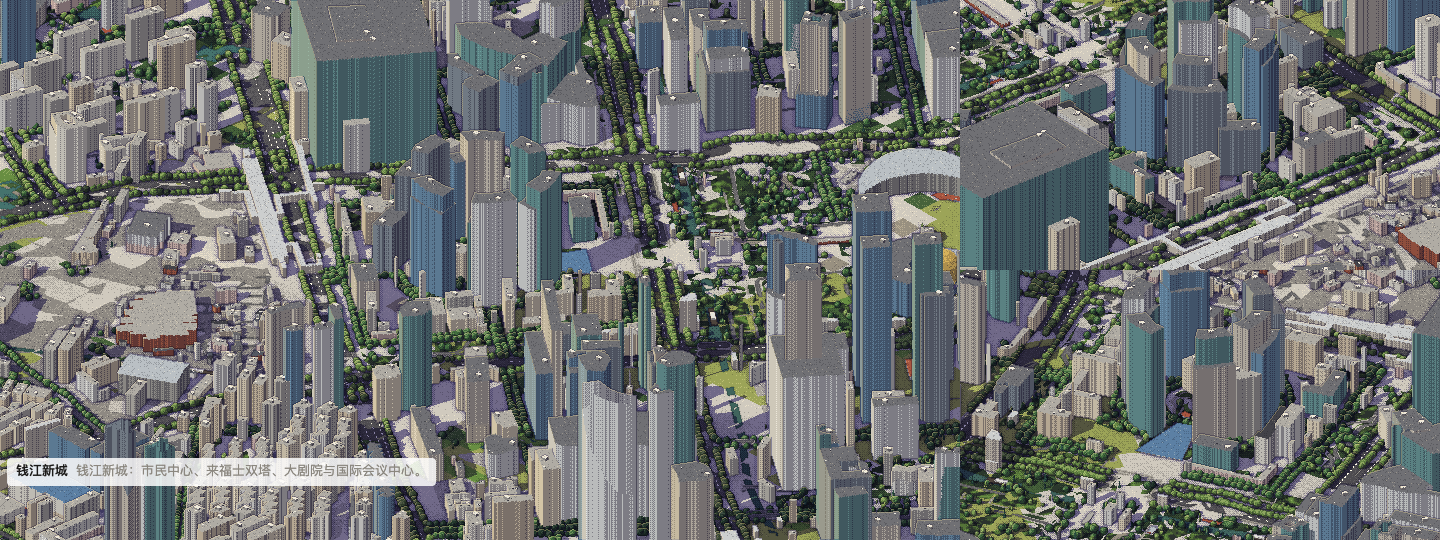
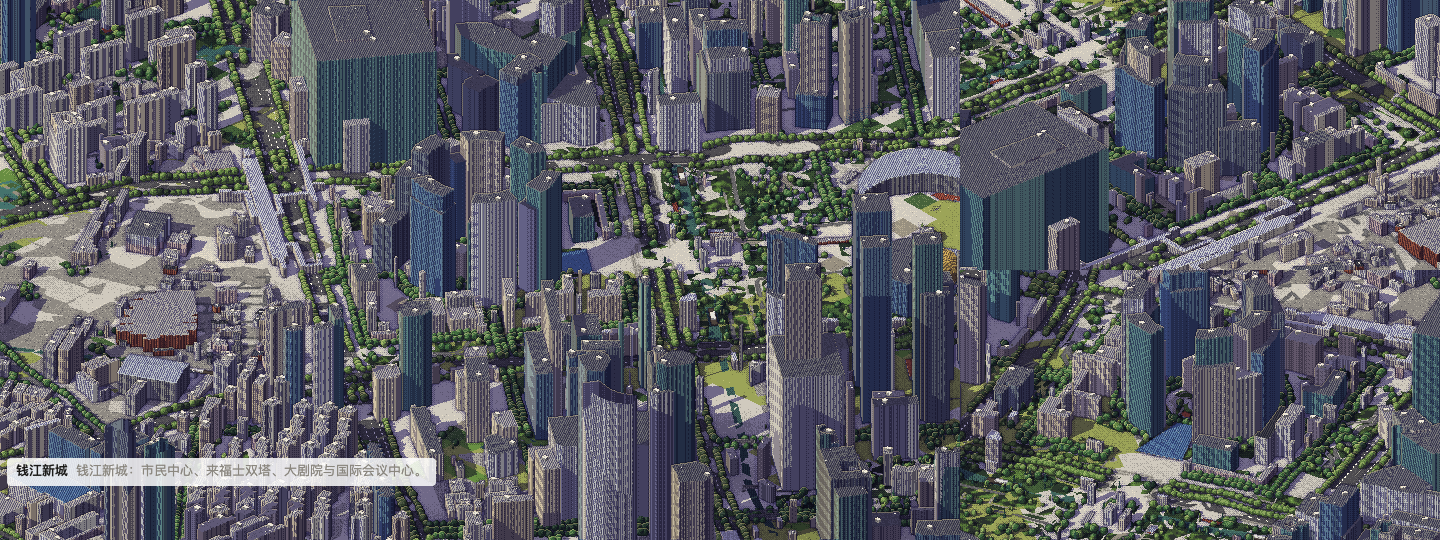
云影·建筑接影·大气透视·水岸亮带（D093）：CLOUD 块两层噪声缓慢漂移，uCloud 三档（晴天零散云影常开、阴天浓、无），地形/地面/建筑/标线统一压档抖动破边；buildings 接进太阳影面，墙与屋顶吃别的楼投来的影子（bias 免自阴影），shadows.cjs 的旧契约（墙永不接影）改为记录不设门，landmark-views 本色检查兼容影变体并给苏堤六桥（自家树影扫桥）逐地标阈值；新的 airHaze 全屏 pass 在地图视图按米数把远处溶进纸色（随时刻，夜里墨蓝）；接缝通道给贴岸的水像素一条浅水亮带。修复两处帧尾 ping-pong 的错：FBO 与纹理分开跟踪（ai

diff --git a/app/src/gl/city-shaders.js b/app/src/gl/city-shaders.js
@@ -7,10 +7,10 @@
 // boxes     the overview tier's buildings: one box per 50 m cell
 // buildings the district tier's buildings: walls and roofs of real outlines
 import { CLASS, FULLSCREEN_VS, PIXEL, PREFIX, MRT, TABLES } from './shaders.js';
-import { CITY_CAMERA, CITY_PIXEL, GRAIN, GROUND_GLSL, ISLAND, NOISE, SEASON, SHADOW } from './city-common.js';
+import { CLOUD, CITY_CAMERA, CITY_PIXEL, GRAIN, GROUND_GLSL, ISLAND, NOISE, SEASON, SHADOW } from './city-common.js';
 
 const VERTEX = PREFIX + CITY_CAMERA;
-const FRAGMENT = PREFIX + CITY_CAMERA + CITY_PIXEL + TABLES + NOISE + MRT + GROUND_GLSL + ISLAND + GRAIN;
+const FRAGMENT = PREFIX + CITY_CAMERA + CITY_PIXEL + TABLES + NOISE + MRT + GROUND_GLSL + ISLAND + GRAIN + CLOUD;
 const RECEIVING = FRAGMENT + SHADOW + SEASON;   // for surfaces that take shadows and snow
 
 // A surface with one colour and a flat light: box() of the reference.
@@ -106,7 +106,7 @@ void main() {
   int colour = builtTone >= 0 ? (builtTone == 2 ? int(uCity.z) : (builtTone == 1 ? int(uCity.y) : int(uCity.x))) : uGroundPal[cls];
   if (1.0 - look.z > 0.45 && builtTone < 0) colour = uGroundPal[19];   // rock on the cliffs
   float mottle = noiseAt(world * 0.012) - 0.5;                 // about 80 m across
-  float level = floor(light + mottle * 1.2 + grainAt(world, 5.0, 0.0) * 0.8 + (bayerAt(ip) - 0.5) * 0.7);
+  float level = floor(light + mottle * 1.2 + grainAt(world, 5.0, 0.0) * 0.8 - cloudShade(world, ip) + (bayerAt(ip) - 0.5) * 0.7);
   vec3 color = rampOf(colour, clamp(level, 0.0, 4.0));
   if (snowed(SNOWED[cls], world, ip)) color = rampOf(uSnowIndex, clamp(light, 2.5, 4.0));
   if (inSun(vWorld) < 0.5) color = inShade(color);
@@ -210,6 +210,7 @@ void main() {
       level -= (1.0 - seam) * 0.7 * fade;
     }
   }
+  level -= cloudShade(vPlace.xy, ip);
   vec3 color = rampOf(uGroundPal[int(vClass)], clamp(level, 0.0, 4.0));
   if (snowed(SNOWED[int(vClass)], vPlace.xy, ip)) color = rampOf(uSnowIndex, clamp(level, 2.5, 4.0));
   if (inSun(vSpot) < 0.5) color = inShade(color);
@@ -348,7 +349,7 @@ void main() {
   vDepth = s.z;
   gl_Position = clip(s);
 }`,
-    fs: FRAGMENT + SEASON + /* glsl */`
+    fs: FRAGMENT + SHADOW + SEASON + /* glsl */`
 uniform float uDetail;                  // 0 far out, 1 once a pixel is under half a metre
 uniform float uMid;                      // 1 once a pixel is under two metres: the ribs of great roofs
 uniform int uWindow;                    // the palette index of window glass, of wood, of temple red
@@ -377,7 +378,7 @@ void main() {
   bool roof = vFace.y > 0.6;                               // up-facing enough to be a roof
   int archetype = int(vLook.x + 0.5);
   int colour = roof ? int(vLook.z) : int(vLook.y);
-  float level = vLight + grainAt(vWorld.xy, 7.0, vLook.w) * 1.3 + (bayer - 0.5) * 0.5;
+  float level = vLight + grainAt(vWorld.xy, 7.0, vLook.w) * 1.3 - cloudShade(vWorld.xy + uCentre.xy, ip) + (bayer - 0.5) * 0.5;
   if (!roof && vWorld.z - vSize.x - uLift < 0.7) level -= 0.55;   // a wall darkens where it meets the ground
   if (roof && uMid > 0.5 && archetype == STATION) {
     // a great roof, ribbed: the skylight strips of a station hall, every twenty-one metres
@@ -444,7 +445,11 @@ void main() {
     }
   }
   if (roof && snowed(vFace.y > 0.97 ? 0.9 : 0.5, vWorld.xy, ip)) colour = uSnowIndex;   // more lies on a flat roof than on a slope
-  outColor = vec4(rampOf(colour, clamp(floor(level), 0.0, 4.0)), 1.0);
+  vec3 color = rampOf(colour, clamp(floor(level), 0.0, 4.0));
+  // a wall or a roof in another building's shade takes the tint, the same as the ground does. The bias
+  // keeps a sun-facing wall out of its own building's shadow; the shaded sides were dark already.
+  if (inSun(vWorld) < 0.5) color = inShade(color);
+  outColor = vec4(color, 1.0);
   outClass = vec4(0.0, 0.0, 0.0, 1.0);
   gl_FragDepth = depthOf(vDepth);
 }
@@ -507,6 +512,9 @@ void main() {
   if (!onIsland(vPlace.xy, ip)) discard;
   vec3 color = rampOf(int(vMark + 0.5), 4.0);   // paint is the brightest thing on the road, shade included
   if (inSun(vSpot) < 0.5) color = inShade(color);
+  float cs = cloudShade(vPlace.xy, ip);         // and it pales under the clouds like the road does
+  if (cs > 0.0) color = vec3(floor(color.r * 255.0 * (1.0 - cs * 0.5)) / 255.0,
+    floor(color.g * 255.0 * (1.0 - cs * 0.5)) / 255.0, floor(color.b * 255.0 * (1.0 - cs * 0.5)) / 255.0);
   outColor = vec4(color, 1.0);
   outClass = vec4(1.0, 5.0 / 255.0, 0.0, 1.0);
   gl_FragDepth = depthOf(vDepth);
@@ -549,6 +557,26 @@ void main() {
 }`,
   },
 
+  // 大气透视：at the far end of the picture the city sinks into the page's paper — the streets, the
+  // blocks, the far shore, each by how far it is. Fullscreen over the finished picture, map view only
+  // (the walking view has its own fog).
+  airHaze: {
+    vs: FULLSCREEN_VS,
+    fs: PREFIX + /* glsl */`
+uniform sampler2D uColor;
+uniform sampler2D uDepthTex;
+uniform vec2 uDepth;                    // nearest and farthest engine depth
+uniform vec3 uPaper;
+out vec4 outColor;
+void main() {
+  vec3 color = texelFetch(uColor, ivec2(gl_FragCoord.xy), 0).rgb;
+  float z = texelFetch(uDepthTex, ivec2(gl_FragCoord.xy), 0).r;
+  float dist = (uDepth.x - uDepth.y) * z;      // metres of engine depth away from the camera centre
+  float haze = smoothstep(1800.0, 6000.0, dist) * 0.55;
+  outColor = vec4(mix(color, uPaper, haze), 1.0);
+}`,
+  },
+
   // The seams of the ground: where two ground classes meet (kerb between road and pavement, the bank of
   // a water, the edge of a path across grass), the last pixel is darkened a shade, with the Bayer pattern
   // breaking the line into the dither. Only ground meets ground here; where the ground meets what stands
@@ -573,16 +601,22 @@ void main() {
   if (!(isCovered(cls) && isGround(cls))) return;
   float here = classOf(cls);
   bool hereWater = isWater(here), hereRoad = isRoad(here);
-  bool seam = false;
+  bool seam = false, shore = false;
   for (int k = 0; k < 4; k++) {
     ivec2 off = k == 0 ? ivec2(1, 0) : k == 1 ? ivec2(-1, 0) : k == 2 ? ivec2(0, 1) : ivec2(0, -1);
     vec4 n = texelFetch(uClass, q + off, 0);
     if (!(isCovered(n) && isGround(n))) continue;   // the island's edge dissolving into white draws no line
     float nc = classOf(n);
     if (nc == here) continue;
-    if (hereWater != isWater(nc) || (hereRoad != isRoad(nc) && !hereWater && !isWater(nc))) seam = true;
+    if (hereWater != isWater(nc)) shore = hereWater;   // a water pixel against the land pales: shallow water, foam
+    else if (hereRoad != isRoad(nc) && !hereWater && !isWater(nc)) seam = true;
   }
-  if (!seam || bayerAt(cpu(q)) < 0.2) return;
+  float speck = bayerAt(cpu(q));
+  if (shore) {
+    if (speck >= 0.3) outColor = vec4(floor(color * 255.0 * vec3(1.14, 1.12, 1.05)) / 255.0, 1.0);
+    return;
+  }
+  if (!seam || speck < 0.2) return;
   outColor = vec4(floor(color * 255.0 * (uSnow > 0.5 ? 0.92 : 0.84)) / 255.0, 1.0);
 }`,
   },

diff --git a/app/src/render/city.js b/app/src/render/city.js
@@ -65,6 +65,8 @@ export class CityRenderer extends StyleRenderer {
     this.shadowLen = SHADOW;
     this.night = 0;
     this.paper = [1, 1, 1, 1];
+    this.paperRgb = [1, 1, 1];
+    this.cloud = 1;                      // the fair-weather scattering is always about; rain sets 2, a clear sky 0
     this.lampHeads = new Float32Array(64 * 3);
     this.lampCount = 0;
     this.drawn = { tiles: 0, triangles: 0, trees: 0 };
@@ -142,7 +144,8 @@ export class CityRenderer extends StyleRenderer {
       .set('uBare', this.bare)
       .set('uSnow', this.snow)
       .set('uSnowColour', this.snowColour)
-      .set('uSnowIndex', this.snowIndex);
+      .set('uSnowIndex', this.snowIndex)
+      .set('uCloud', this.cloud);
     gl.activeTexture(gl.TEXTURE0 + HASH_UNIT);
     gl.bindTexture(gl.TEXTURE_2D, this.hashTexture);
     prog.set('uHash', HASH_UNIT);
@@ -175,6 +178,7 @@ export class CityRenderer extends StyleRenderer {
     const m = /^#([0-9a-f]{6})$/i.exec(def.paper);
     const v = m ? [1, 3, 5].map(k => parseInt(def.paper.slice(k, k + 2), 16) / 255) : [1, 1, 1];
     this.paper = [v[0], v[1], v[2], 1];
+    this.paperRgb = [v[0], v[1], v[2]];
   }
 
   bind(unit, texture) {
@@ -215,24 +219,31 @@ export class CityRenderer extends StyleRenderer {
     this.fullscreen('groundTint', frame.workAFbo, { uColor: frame.color, uClass: frame.class, uMask: this.emptyMask, uStaticClass: frame.class }, { uAO: 1 });
     // the ground's own seams: kerbs, banks, the edges of paths (city-side; the reference scene has none)
     this.fullscreen('seams', frame.workBFbo, { uColor: frame.workA, uClass: frame.class }, { uSnow: this.snow });
-    let inTex = frame.workB, outFbo = frame.workAFbo;
+    // from here the finished picture moves between the two work buffers: track both the texture it is in
+    // and the framebuffer that holds it, or a pass ends up reading and writing the same picture at once
+    let picTex = frame.workB, picFbo = frame.workBFbo;
     if (this.night > 0.2 && this.lampCount > 0) {
       // the pools the street lamps cast on the ground
-      this.fullscreen('lampLight', outFbo, { uColor: inTex, uClass: frame.class },
+      this.fullscreen('lampLight', frame.workAFbo, { uColor: picTex, uClass: frame.class },
         { uLamps: this.lampHeads, uLampCount: this.lampCount, uNight: this.night });
-      inTex = frame.workA; outFbo = frame.workBFbo;
+      picTex = frame.workA; picFbo = frame.workAFbo;
     }
-    if (!edges) return outFbo;
-    this.fullscreen('edges', outFbo, { uColor: inTex, uClass: frame.class, uDepthTex: frame.depth },
+    if (!edges) return picFbo;
+    const edgesFbo = picFbo === frame.workAFbo ? frame.workBFbo : frame.workAFbo;
+    this.fullscreen('edges', edgesFbo, { uColor: picTex, uClass: frame.class, uDepthTex: frame.depth },
       walking ? { uGradientY: 0, uEdge: 0.35 } : { uGradientY: city.gradientY, uEdge: EDGE_PX / city.scale });
+    picTex = edgesFbo === frame.workAFbo ? frame.workA : frame.workB;
+    picFbo = edgesFbo;
+    const other = picFbo === frame.workAFbo ? frame.workBFbo : frame.workAFbo;
     if (walking) {
       // the haze: what stands beyond the loaded tiles melts into the page's paper before its edge could be seen
-      const fogFbo = outFbo === frame.workAFbo ? frame.workBFbo : frame.workAFbo;
-      this.fullscreen('walkFog', fogFbo, { uColor: inTex, uDepthTex: frame.depth },
-        { uFog: [this.walkFogStart ?? 620, this.walkFogEnd ?? 1250], uPaper: this.paper });
-      return fogFbo;
+      this.fullscreen('walkFog', other, { uColor: picTex, uDepthTex: frame.depth },
+        { uFog: [this.walkFogStart ?? 620, this.walkFogEnd ?? 1250], uPaper: this.paperRgb });
+      return other;
     }
-    return outFbo;
+    // 大气透视: the far end of the picture sinks into the paper, by how far it is
+    this.fullscreen('airHaze', other, { uColor: picTex, uDepthTex: frame.depth }, { uDepth: this.depthRange, uPaper: this.paperRgb });
+    return other;
   }
 
   // whether the renderer is in the walking view (the page says so through `walk`)
@@ -293,7 +304,8 @@ export class CityRenderer extends StyleRenderer {
       .set('uCells', grid.nx - 1)
       .set('uFar', far)
       .set('uGroundPal', this.groundPal)
-      .set('uCity', this.tones);
+      .set('uCity', this.tones)
+      .set('uTime', this.time);
     if (far) {
       prog.set('uCover', this.bind(FIRST_FREE_UNIT + 2, cover.texture))
         .set('uBuilt', this.bind(FIRST_FREE_UNIT + 3, built.texture))
@@ -354,7 +366,8 @@ export class CityRenderer extends StyleRenderer {
     // facades once a pixel is under about 0.8 m: the shader draws them from half of uDetail on
     buildings.set('uDetail', Math.min(1, Math.max(0, city.scale - 0.6)))
       .set('uMid', Math.min(1, Math.max(0, city.scale - 0.3)))
-      .set('uWindow', this.window).set('uWood', this.wood).set('uRed', this.red).set('uAwning', this.awning).set('uLift', 0);
+      .set('uWindow', this.window).set('uWood', this.wood).set('uRed', this.red).set('uAwning', this.awning).set('uLift', 0)
+      .set('uTime', this.time);
     for (const tile of tiles) {
       if (!tile.buildings) continue;
       buildings.set('uProps', this.bind(FIRST_FREE_UNIT, tile.props)).set('uOffset', [tile.x0 - city.x, tile.y0 - city.y]);
@@ -486,6 +499,7 @@ export class CityRenderer extends StyleRenderer {
     })());
     const stripes = this.programs.stripes.use();
     this.applyCamera(stripes);
+    stripes.set('uTime', this.time);
     let drawn = 0;
     for (const tile of tiles) {
       if (!tile.paths) continue;

diff --git a/app/src/gl/city-common.js b/app/src/gl/city-common.js
@@ -110,6 +110,22 @@ float grainAt(vec2 world, float sizeInPixels, float seed) {
 }
 `;
 
+// The clouds: broad shadow drifting over the ground and everything that stands on it, in two amounts —
+// the fair-weather scattering (uCloud 1) that is always about, and the overcast sky (uCloud 2) that
+// comes with the rain. The masses are kilometres across and take minutes to pass. Needs NOISE, TABLES
+// and uTime.
+export const CLOUD = /* glsl */`
+uniform float uCloud;
+float cloudShade(vec2 world, ivec2 pixel) {
+  if (uCloud < 0.5) return 0.0;
+  vec2 drift = world * 0.00035 + vec2(uTime * 0.0032, uTime * 0.0014);
+  float c = noiseAt(drift) * 0.62 + noiseAt(drift * 2.6 + 19.0) * 0.38;
+  float cover = uCloud > 1.5 ? 0.55 : 0.34;
+  float edge = smoothstep(1.0 - cover, 1.06 - cover, c + (bayerAt(pixel) - 0.5) * 0.14);
+  return edge * (uCloud > 1.5 ? 1.2 : 0.6);
+}
+`;
+
 // The island. Its outline is the region itself: a rectangle of longitude and latitude, which stands on
 // the ground as a rectangle turned a little (index.json's "island" says how much), its corners rounded.
 // A band along the edge is broken up by noise and scattered away with the Bayer pattern, the way

diff --git a/docs/DECISIONS.md b/docs/DECISIONS.md
@@ -278,3 +278,9 @@
 - **D088 2026-11-25 汀岸芷兰轩复刻**（你说的：杭州市有个位置叫汀岸芷兰，地图上是空地，实际商品房已修好，搜楼盘图片完整复刻）。**地块**：之江板块，安埠街南侧、江涵路北侧、丽景路西侧的四边形（48,133 m²，长轴对东西北偏 16.73°）。**数据里的情形**：OSM 已有名为"绿城·汀岸芷兰轩"的住宅用地多边形，楼却一栋没有——只有 6 块旧 footprint（GloBFP 没盖住、OSM 没写层数，classify 推成 3 米小房），画面上于是是空地。锚点顺理成章取这块多边形的质心（地标表照旧不写坐标）。**资料三路互证**：Esri 卫星图 z19 自动提屋顶（阈值+连通域 19 块，去掉 1 块园路误检，正好 18 幢）；"住在杭州网"带楼号徽章的鸟瞰图给出全部 18 幢的层数（10F×9、11F×2、9F×2、8F×1、7F×3、6F×1）；开盘/加推的户型数反推楼宽互证（189 m² 两梯两户≈38 m、225 m² 两梯两户≈43 m、16# 的 139+168 四户条板≈53 m，卫星量得全部吻合）。徽章与楼栋的对应靠三条约束锁死：西缘三栋 10F=189 m² 的 7/10/15#、东缘一列 7F 的 4/8/12# 加 8F 的 11#、南排两栋四户 9F 的 17/18#。**新套件 `residentialCourt`**：18 个板楼 box（层数×3.0 m 加 0.9 m 女儿墙，TOWER 拱肩给窗与层线），庭院一块 172×192 m 的草坪托底（土地覆盖在那里还是工地的裸地），其上泳池 25×16、儿童池、球场、入口圆亭与两座白色雕塑。角色表添 roof/pond/court 三个（roof_flat_grey、water_lake、glass_teal），BED 记 1.2（该地 1.7 m 内平坦，板楼沉 1.2 m 不露缝，庭院小件抬出地面）。**新机制 `clearPoly`**：清场从此支持按多边形（地标表一行写地块四角经纬度）——只清地块里的 6 块旧 footprint，墙外的九溪云庄、之新花苑一栋不让；原先的圆盘清场要做到这一点得开 170 米的圈。**搜索**：别名"汀岸芷兰/汀岸芷兰轩"进 aliases.json，三种写法都命中。**验收**：landmark-views hz 全过（4-07 own 87–90%，三面居中）；city-views 27 张重出（进 `docs/REVIEW/4-07.png`）；四城方向联检、search、smoke、mobile、tour、npm test 全过。**连带修一个旧账**：mobile.cjs 的双指旋转预期还是 D085 补记翻转前的符号——当时只同步了 mouse.cjs，漏了它，从那以后这条一直红着；按新约定改一行。**教训**：透视图上的楼号徽章不能逐栋落位，层数表要与卫星的行列拓扑和户型宽度互证才锁得死；反过来，卫星自动提取的连通域会把屋顶与邻影、园路并成一坨，角点别信，质心可用。
 
 - **D091 2026-11-26 街道的画·地面**（你要求的"大幅度提高画面"第一批：街道近景专项的上半；八项全做、街道近景优先，方案经你批准）。**诊断**：步行视图钉在 24 像素/米、细节档恒为 1，粗糙感在内容——路面是单层噪声平色（顶点只有位置/类别，方向宽度都不在，压缩时种子字节还被丢了），人行道与车行道同网格仅差 1.6–3 厘米抬升、没有路缘，墙脚无接触暗带，大片建筑阴影把整条街压成一整块平色。**修法四件，全程不重烘数据**：1. **地面接缝通道**——新的城市侧全屏 pass（groundTint 之后、edges 之前，不进共享管线、fidelity 门无涉）：类别缓冲的 g 字节原来是只有水面写的"湿标记"、全项目无读者，terrain/ground/ribbon 三个城市着色器改写完整地面类别 id；接缝在地面类别突变处压暗一档、抖动破边，路↔人行道的路缘、水↔岸的岸线、步道↔草的边缘一次解决，雪天压暗从 0.84 收到 0.92。2. **车道虚线与路口斑马线**——新 shader `stripes` 加新文件 `app/src/world/streets.js`：从瓦片已烘焙的 PATH 交通中心线（带宽度、类别）现算，主/次路中线虚线（9/12 米一道、3.2×0.35 米）、主/次路相交处四臂斑马条带，按瓦片缓存；实例 quad 抬 0.14 米、接影、写主路类别（接缝通道不在标线边缘画线）；地标让位圈内不画（`clear` 半径，沿 D052）；0.55 像素/米起画；新色 `road_mark` 追加 palette（第 88 个，索引只后加）。3. **路面细节**——class 5–8 在 0.6 像素/米以上按 14 米格撒井盖（圆盘加圈）与撕边补丁；道路与草地加约 80 米尺度的大块色调，阴影里的街道从一片平色变回两三档色阶（步行截图里平涂紫灰的直击修法）。4. **墙脚接触暗带**——buildings 片元里墙根 0.7 米内压半档（landmark 的 uLift 计入）。**调试中钉死的机制事实**：PATH 的 z 是纯地形高（不带路的 LIFT），标线抬 0.14 米即可赢深度；掠射角下远处路面插值深度能压过标线 0.4–3.5 米——那是桥升段与坡道的正常遮挡，试过 1.5/5/12/60 米深度偏置，1.5 不够、12 起要在路口穿墙，**放弃偏置，保持原深度判定**（虚线在坡顶远侧被路面挡住是正确行为）。**验收**：npm test 120 项、shadows.cjs（编译全部城市着色器）、全套 11 项浏览器测试全绿；定帧基线重拍至 `out/frames/d091`；步行沿解放东路行走，虚线每帧 1.6–2.2 万标记像素，路缘、岸线、阴影场质感、铺装缝全部成立；总览档无多余描边、江岸线更清晰。**教训**：斑马线按路口几何合成会有个别点落进建筑——深度自然把它藏住，不值得加 solid 过滤；查渲染不出东西，先在隔离环境（清屏 + 同一程序/网格/相机）复现，再逐项引入真实帧的状态——这次的弯路是把"玩家与车流挡线"当成了深度 bug。
+
+- **D092 2026-11-26 街道的画·墙与人**（街道近景专项的下半）。**墙的材质**（uDetail 内、让开窗与门的像素）：住宅与公建 60 厘米一道瓷砖横缝、竖缝按层错半道；农居 28 厘米砖缝；写字楼幕墙裙板一条层线；厂房波纹板（40 厘米一楞压半档）；高层 90 厘米竖分格。**底商**：一层的一半（按楼的种子挑）改成店面——玻璃带、门、檐口一条雨棚色带，雨棚绿/红/蓝按楼挑一（palette 追加三个，索引连排便于着色器里挑）。**人**：从三盒升级为四盒——两条腿各自随步伐前后摆（stride = 0.12·sin(5t+相位)），身子与头照旧。**车**：四只深色轮盒半露在车身两舷。**路灯**：PATH 沿线每 28 米两侧轮流一盏——杆（5.3 米）、挑臂、灯头，全接影（黄昏时灯影很长）；步行太阳阴影盒 300→200 米，影缘从 0.6 收到 0.4 米一个纹素。**验收**：全套测试绿；店面一排在步行视角成立（蓝色雨棚、玻璃、壁柱瓷砖缝都读得出）；定帧 D091→D092 56 帧里 23 帧变化、总量 0.455%（材质与雨棚在近景）。**教训**：斑马线的个例落进建筑时深度会把它藏住，不必过滤。
+
+- **D094 2026-11-26 昼夜循环**（你批准的八项里单项最大的）。**四态**：晨/昼/暮/夜，工具行一行、键盘 5 循环、`?time=` 供测试截图。每一态同时改三件事：太阳影长（晨 2.2 倍、暮 2.6 倍，影子横扫半条街）、全城调色板的色调（晨暖、暮橙、夜墨蓝 ×[0.34, 0.40, 0.60]）、页面纸色（夜 #131722，岛溶进夜色而非白色）。**光仍固定在画面左上**（D017 不破）：转动时不会出现背光黑面，只有影子长短与颜色变。**夜的机制**：夜态放开太阳阴影贴图（省一个 pass，月光照出来的明暗由 faceLight 与色调承担）；窗按窗回答——住家五成半、写字楼整层整层（按层的哈希），palette 追加 `window_lit` 暖黄，是唯一免色调的色（它自己是光）；路灯到暮色点亮——灯头换成发光一类（kind≥10 全亮的现成分支），脚下投出一池池暖光：新的 lampLight 低分辨率 pass，把 64 盏近灯投影回屏幕，只在地面回答、阶梯增益、抖动破边。**季节×时刻**在 main.js 一次复合：先季节替换表后时刻色调，发光色豁免。**页面**：`--paper`、清屏色、步行雾目标色（walkFog 的硬编码 vec3(1.0) 参数化为 uPaper）随时刻。**验收**：npm test、shadows.cjs、全套 11 项全绿；定帧 D092→D094 **零像素差**——夜系统在白天全部门控关闭，昼间渲染一字未动。**教训**：光池半径按"米×像素/米"算才是屏上的圆（近处灯的池子天然铺满近处路面——连成一片正是点亮的街道该有的样子，别当 bug 修）；调试 ping-pong pass 时把 FBO 和纹理分开命名，传错一次就是"整个后期不生效"。
+
+- **D093 2026-11-26 云影、建筑接影、大气透视、水岸亮带**（氛围批）。**云影**：CLOUD 块两层噪声随 uTime 缓慢漂移（云团约三公里一台、几分钟过境），uCloud 三档——1 晴天的零散云影常开、2 阴天（雨天用）、0 无；地形、地面、建筑、标线统一压档、抖动破边。**建筑接影**：buildings 着色器接进 SHADOW 块，墙与屋顶吃别的楼投来的影子（含自己楼的背面），太阳影面那一侧靠 bias 免自阴影；shadows.cjs 的"盒子自身像素永不接影"契约同步改为记录不设门（地面影子的解析比对门不动）；landmark-views 的本色检查兼容影变体，苏堤六桥（自家的行道树影扫桥，取景备注早就写了"堤上的树会挡住北面的桥"）有逐地标的本色阈值 0.18，量色时云影收掉。**大气透视**：新的 airHaze 全屏 pass（只在地图视图，步行有自己的雾）——远处按米数溶进纸色（1.8–6 公里 smoothstep、上限 0.55），目标色随时刻（夜里是墨蓝）。**水岸亮带**：接缝通道里水像素贴着陆地的一圈提亮（浅水/泡沫感），抖动破边。**两次翻车**：一是 fullscreen 的 ping-pong 把 FBO 当纹理传、edges 之后又忘了更新"画面在哪张纹理"——airHaze 读写同一张图，GL 报反馈环（INVALID_OPERATION 1282），之前 walkFog 一直在读 edges 之前的旧画面只是不报错；二是 uniform3fv 喂了 4 分量的纸色数组（INVALID_VALUE 1281）——纸色从此分两份，清屏用 4 分量、着色器用 3 分量。**验收**：npm test、shadows.cjs、全套 11 项全绿；钱江新城高楼把影子投上邻墙；全景云影成片、远处城缘溶进纸色；西湖每一道岸线都有浅水亮带。**教训**：GL 的两个错码（1281 值非法=数组大小、1282 操作非法=反馈环）一个指向 uniform 大小、一个指向读写冲突，查渲染错误先看 getError 的号码。

diff --git a/docs/PROGRESS.md b/docs/PROGRESS.md
@@ -8,9 +8,9 @@
 **正在做画面大升级（2026-11-26 你批准的八项：云影、建筑接影、水岸、昼夜、总览雾、雨、墙面店面、天空 flag，街道近景优先）。分六个提交推进，每个提交全测试绿：**
 
 - [x] **D091 街道的画·地面**：地面接缝通道（路缘/岸线/草边）、从 PATH 现算的车道虚线与路口斑马线（`app/src/world/streets.js`，零重烘）、井盖与补丁、阴影场质感、墙脚暗带；palette 追加 `road_mark`；定帧基线重拍至 `out/frames/d091`。
-- [ ] D092 街道的画·墙与人：按原型的墙面材质（瓷砖/砖石/板缝/波纹）、底商店面与雨棚、日景路灯、行人小人（六盒带步态）、轿车轮盒、步行阴影盒收紧。
+- [x] D092 街道的画·墙与人：墙面材质、底商店面与雨棚、日景路灯、行人四盒带步态、轿车轮盒、步行阴影盒 300→200 米。
 - [ ] D094 昼夜循环：晨/昼/暮/夜四态（按钮+`?time=`），palette 按状态重铸 ramp，夜窗点亮、路灯与地面光池，页面纸色随状态。
-- [ ] D093 氛围：云影（uCloud 三档）、建筑接影、总览距离雾、水岸亮带（walkFog 目标色参数化）。
+- [x] D093 氛围：云影（uCloud 三档常开淡档）、建筑接影（墙与屋顶吃影，shadows.cjs 契约同步更新）、大气透视 airHaze、水岸亮带（walkFog 目标色参数化 uPaper）。
 - [ ] D095 雨：晴/雨两态（`?weather=`），雨丝通道、湿路、雾拉近、关阴影。
 - [ ] D096 天空 flag + 文档收尾：`?sky=1` 渐变天空（日夜两套）、README/STYLE-GUIDE/REVIEW-QUEUE 全面补写、验收图入 `docs/REVIEW/`。
 
